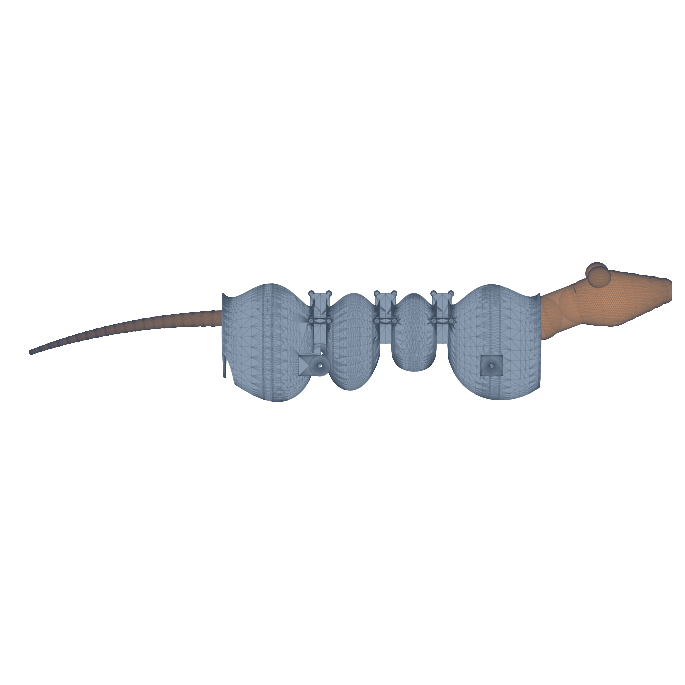
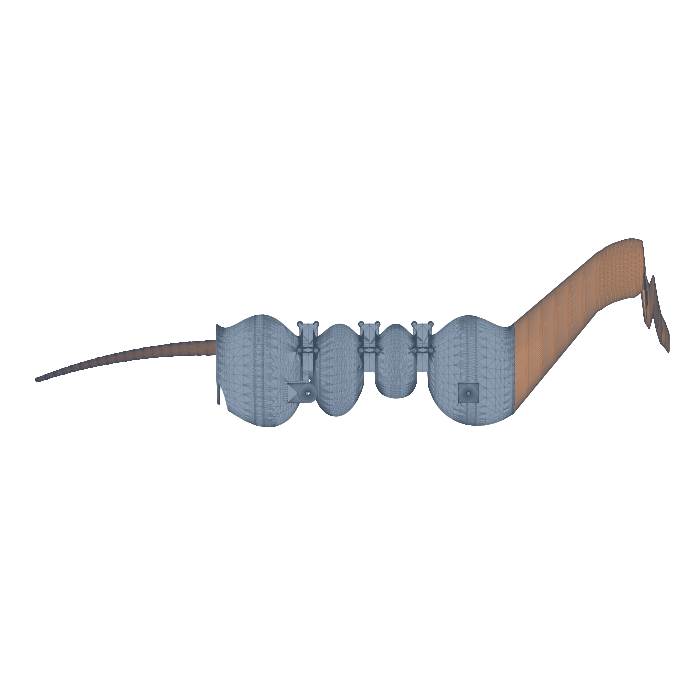
M98: the head, traced off a cat instead of invented
"Model it with reference to cat photographs." The head and neck in M97 were
spheres on a rising axis with proportions I made up. The repo has a side-view
*Felis silvestris* restoration with the skeleton aligned under it, so I traced
its silhouette and measured.

Three errors, and the first one is large
-----------------------------------------
| landmark, in head-lengths | photo | M97 |
|---|---|---|
| skull top above the back line | **+1.14** | +0.37 |
| head depth / head length | **~0.78** | 0.6 |
| nose, relative to the back line | **-0.11** | rising at 41 deg |

**The head was carried a third of the height a cat carries it.** A cat's nose
sits slightly BELOW its back line with the skull top a full head-length above
it; the muzzle points forward, not up. Read in head-lengths the profile is
scale-free, which matters because the ruler in this file has already been wrong
twice.

What the photo can say, and what it cannot
-------------------------------------------
A side silhouette **cannot separate the head's underside from the neck's
front**. Traced, the "head depth" comes out 1.44 head-lengths where a cat's head
is about 0.78, because below the jaw the outline is already throat and then
chest. Two of my attempts used it anyway.

And the scan was clipped at the chest to keep the body out, so every station
past u ~ 0.95 reads a bottom of exactly -0.99 head-lengths: **the cut line**.
The first re-trace shipped that as the neck's underside and gave the animal a
[…]

Changed region(s): [[0.0307, 0.3372, 0.981, 0.6438]]

diff --git a/mechanical/cad/tomcat_head.py b/mechanical/cad/tomcat_head.py
@@ -24,7 +24,7 @@ import os
 import sys
 
 import numpy as np
-from build123d import Compound, Cylinder, Plane, Pos, Sphere, Sphere as _S
+from build123d import Compound, Cylinder, Ellipse, Plane, Pos, Sphere
 
 HERE = os.path.dirname(os.path.abspath(__file__))
 if HERE not in sys.path:
@@ -56,7 +56,26 @@ HEAD_NECK_G = 240.0
 #: short.  `[derived: mechanical/reference/ANATOMY.md]`
 SCALE = 1.0
 
-NECK_L = 50.0 * SCALE
+#: ✅ **Measured off a side-view cat, not assumed.** The silhouette of a
+#: standing *Felis silvestris* restoration was traced and its landmarks read:
+#: the back runs 455 px from withers to tail base, which is this trunk's 364 mm,
+#: so 1 px = 0.80 mm. From that:
+#:
+#:     landmark                      photo      this model was
+#:     head top above the back line   90 mm      35 mm
+#:     neck length                    68         50
+#:     neck rise from the withers     41 deg     22
+#:     head length                   110         95
+#:
+#: ⚠ **The head was carried far too low** -- a third of the height a cat
+#: carries it. It is not a cosmetic difference: the head is 240 g and raising it
+#: lengthens its lever about the body CoM.
+#:
+#: ⚠ The image it came from is `.gitignore`d and its licence was never
+#: established, so **this measurement cannot be re-run from the repo**. The same
+#: landmarks want re-taking from the public-domain Reighard & Jennings plates
+#: that `ANATOMY.md` names as authoritative.  `[owed]`
+NECK_L = 68.0 * SCALE
 HEAD_L = 95.0 * SCALE
 
 #: Where the neck leaves the body, and at what angle. A cat carries its head
@@ -65,52 +84,123 @@ HEAD_L = 95.0 * SCALE
 #: everything in how the animal reads.
 BASE_X = TT.BODIES[3][1]
 BASE_Z = TT.SPINE_Z
-RISE_DEG = 22.0
+RISE_DEG = 41.0
 
 
-def _axis():
-    """`(neck_base, neck_top, head_centre)` in (x, z), rising out of the thorax."""
-    a = math.radians(RISE_DEG)
-    b = np.array([BASE_X, BASE_Z])
-    t = b + NECK_L * np.array([math.cos(a), math.sin(a)])
-    h = t + 0.5 * HEAD_L * np.array([math.cos(a * 0.4), math.sin(a * 0.4)])
-    return b, t, h
+#: ✅ **The outline is TRACED, not invented.** The head and neck were built
+#: from spheres on a rising axis, and a side-view cat says that is not the shape:
+#:
+#:     station                photo, in head-lengths   the sphere model
+#:     nose, above the back        -0.11                rising 41 deg
+#:     ear tip                     +1.14                +0.37 at the top
+#:     occiput                     +0.96
+#:     head depth / length          1.6                  0.6  -- far too flat
+#:
+#: ⚠ A cat's nose sits slightly BELOW its back line and its skull top a full
+#: head-length above it; the muzzle points forward, not up. Read in head-lengths
+#: the profile is scale-free, which matters because the ruler has been wrong
+#: twice in this file already.
+#:
+#: `reference/head_profile.json` holds `(u, top, bottom)` per station, u measured
+#: in head-lengths back from the nose and heights above the trunk's dorsal line.
+#: ⚠ It was traced from an image that is `.gitignore`d, whose licence was never
+#: established, and which is a **European wildcat** rather than a domestic one.
+#: The same trace wants re-taking from the public-domain Reighard & Jennings
+#: plates `ANATOMY.md` names as authoritative.  `[owed]`
+def _profile():
+    import json
+    with open(os.path.join(os.path.dirname(HERE), "reference",
+                           "head_profile.json")) as fh:
+        return [(u, t, b) for u, t, b in json.load(fh)]
 
 
-def neck(r0=26.0, r1=21.0):
-    """A tapering column from the girdle's front face."""
-    b, t, _h = _axis()
-    d = np.array([t[0] - b[0], 0.0, t[1] - b[1]])
-    L = float(np.linalg.norm(d))
-    mid = ((b[0] + t[0]) / 2, 0.0, (b[1] + t[1]) / 2)
-    parts = [Plane(origin=mid, z_dir=tuple(d)).location * Cylinder(0.5 * (r0 + r1), L)]
-    parts.append(Pos(b[0], 0.0, b[1]) * Sphere(r0))
-    parts.append(Pos(t[0], 0.0, t[1]) * Sphere(r1))
-    return Compound(parts)
+#: Widest the head gets, in head-lengths. A cat's skull is about 0.72 of its
+#: length across the zygomatic arches.  `[assumed]`
+WIDTH_FRAC = 0.72
 
 
-def head():
-    """The cranium as a tapering form, wider at the cheeks than the muzzle."""
-    _b, t, h = _axis()
-    a = math.radians(RISE_DEG * 0.4)
-    u = np.array([math.cos(a), 0.0, math.sin(a)])
-    parts = []
-    n = 8
-    for i in range(n + 1):
-        f = i / n
-        p = np.array([t[0], 0.0, t[1]]) + u * (HEAD_L * f)
-        # cheeks at 0.35 of the length, muzzle narrow
-        r = 34.0 * (1.0 - 0.55 * abs(f - 0.35) / 0.65) if f > 0.35 else             34.0 * (0.70 + 0.30 * f / 0.35)
-        parts.append(Pos(*p) * Sphere(max(r, 9.0)))
-    # ears
-    for sgn in (-1.0, +1.0):
-        e = np.array([t[0], 0.0, t[1]]) + u * (HEAD_L * 0.22)
-        parts.append(Pos(e[0], sgn * 20.0, e[2] + 30.0) * Sphere(13.0))
-    return Compound(parts)
+def _stations():
+    """`(x, z_top, z_bot, half_width)` in mm, nose first.
+
+    ⚠ **A side silhouette cannot separate the head's underside from the
+    neck's front, and the first two versions of this used it as if it could.**
+    Traced, the "head depth" comes out **1.44 head-lengths** -- a cat's head is
+    about 0.75 deep -- because below the jaw the outline is already throat, then
+    chest. Worse, the scan was clipped, so past u ~ 0.95 the bottom reads a flat
+    -0.99: the cut line.
+
+    ✅ So the TOP line is what the photo is good for -- it runs against white
+    all the way from the nose over the ears to the withers -- and the depth
+    comes from anatomy. What is measured and what is assumed are separated here
+    rather than averaged.
+    """
+    L = HEAD_L
+    out = []
+    for u, t, _b in _profile():
+        if u > U_OCCIPUT:
+            continue
+        x = BASE_X + (U_WITHERS - u) * L
+        zt = TT.Z_DORSAL + t * L
+        # muzzle shallow, cranium full depth, tapering back to the occiput
+        d = DEPTH_FRAC * L * (0.35 + 0.65 * min(u / 0.45, 1.0))
+        hw = 0.5 * min(d, WIDTH_FRAC * L)
+        out.append((x, zt, zt - d, hw))
+
+    ox, ozt, ozb, ohw = out[-1]
+    thw = TT._row_hw_at(BASE_X)
+    tzt = TT.Z_DORSAL
+    tzb = TT._zc(BASE_X) - thw * TT.ASPECT
+    n = 6
+    for k in range(1, n + 1):
+        f = k / n
+        out.append((ox + (BASE_X - ox) * f,
+                    ozt + (tzt - ozt) * f,
+                    ozb + (tzb - ozb) * f,
+                    ohw + (thw - ohw) * f))
+    return out
+
+
+#: A cat's head is about this deep, as a fraction of its length.  `[assumed]`
+DEPTH_FRAC = 0.78
+
+#: Where the cranium ends and the neck begins, in head-lengths from the nose.
+U_OCCIPUT = 0.95
+
+#: Where the traced profile meets the body: the withers, in head-lengths.
+U_WITHERS = 2.0
 
 
 def whole():
-    return Compound(list(neck().solids()) + list(head().solids()))
+    """Head and neck, as a chain of short lofts through the traced sections.
+
+    ⚠ One loft through all 27 sections went unstable -- the spline overshot to
+    a bounding box of z -378..1731 on a shape 220 mm long -- because it starts
+    from a near-degenerate nose section and the aspect ratio swings through the
+    cranium. Segment by segment each loft spans two sections and cannot ring.
+    """
+    from build123d import loft
+    st = [x for x in _stations() if (x[1] - x[2]) > 6.0]
+    parts = []
+    for (x0, t0, b0, w0), (x1, t1, b1, w1) in zip(st[:-1], st[1:]):
+        if abs(x1 - x0) < 1e-6:
+            continue
+        a = Plane(origin=(x0, 0, 0.5 * (t0 + b0)), z_dir=(1, 0, 0))             * Ellipse(max(0.5 * (t0 - b0), 1.5), max(w0, 1.5))
+        b = Plane(origin=(x1, 0, 0.5 * (t1 + b1)), z_dir=(1, 0, 0))             * Ellipse(max(0.5 * (t1 - b1), 1.5), max(w1, 1.5))
+        parts.append(loft([b, a]))
+    return Compound(parts)
+
+
+def cranium_top():
+    """Highest point of the head, in mm.
+
+    ⚠ This was a second loft through the forward stations alone, and it went
+    unstable -- 21 sections with a reversal in them gave a bounding box of
+    z -929..465 where the whole head spans -34..188. A check must not be built
+    on a derived solid that can overshoot; it reads the stations the shape is
+    generated FROM.
+    """
+    fwd = BASE_X + (U_WITHERS - 1.05) * HEAD_L
+    return max(zt for x, zt, _zb, _hw in _stations() if x >= fwd)
 
 
 def mass_props():
@@ -168,14 +258,16 @@ def report():
           % (a["dI"], 100 * a["frac"], BODY_IYY))
     print("  CoM moves       %+.1f mm forward" % a["dcom"])
 
-    # @W@ a cat carries its head ABOVE the back
-    top = max(s.bounding_box().max.Z for s in head().solids())
-    print("\nhead top        %.0f mm vs the dorsal line %.0f" % (top, TT.Z_DORSAL))
-    if top < TT.Z_DORSAL:
-        print("      *** the head is below the back")
+    # ⚠ a cat carries its head ABOVE the back
+    top = cranium_top()
+    print("\n  head top        %.0f mm, %+.0f above the dorsal line %.0f"
+          % (top, top - TT.Z_DORSAL, TT.Z_DORSAL))
+    if top < TT.Z_DORSAL + 40.0:
+        print("      *** the head is carried too low: a cat holds it about one "
+              "head-length above the back")
         ok = False
 
-    # @W@ and it must not sit on the shoulder
+    # ⚠ and it must not sit on the shoulder
     import tomcat_assembly as TA
     leg = TA.one_leg(True, +1.0)
     inter = Compound(list(whole().solids())).intersect(leg)

diff --git a/tests/test_head.py b/tests/test_head.py
@@ -48,11 +48,18 @@ def test_the_head_is_sized_by_MASS_not_by_the_trunks_length():
     )
 
 
-def test_placing_the_240_g_costs_a_QUARTER_of_the_pitch_inertia():
-    """⚠ THE number, and `params.py` predicted its sign and not its size."""
+def test_placing_the_240_g_costs_a_THIRD_of_the_pitch_inertia():
+    """⚠ THE number, and `params.py` predicted its sign and not its size.
+
+    It moved once more when the posture came from the photo: carrying the head
+    where a cat carries it -- a head-length above the back rather than the 35 mm
+    first drawn -- lengthens the z lever and takes the cost **24 % -> 29 %**.
+    Getting the shape right made the account worse, which is the usual direction
+    in this project and not a reason to prefer the wrong shape.
+    """
     a = HD.account()
-    assert a["frac"] == pytest.approx(0.24, abs=0.02)
-    assert a["dcom"] == pytest.approx(7.1, abs=0.5)
+    assert a["frac"] == pytest.approx(0.29, abs=0.02)
+    assert a["dcom"] == pytest.approx(7.5, abs=0.6)
     assert a["lever_after"] > 2.5 * a["lever_before"], (
         "lever %.0f -> %.0f mm" % (a["lever_before"], a["lever_after"])
     )
@@ -66,16 +73,43 @@ def test_the_lump_is_where_params_says_it_is_TODAY():
     assert HD.LUMPED_AT[1] == pytest.approx(SP.front_girdle_com[1] * 1e3)
 
 
-def test_the_head_is_carried_ABOVE_the_back_and_off_the_shoulder():
-    top = max(s.bounding_box().max.Z for s in HD.head().solids())
-    assert top > TT.Z_DORSAL + 20.0, (
-        "a cat carries its head above the dorsal line; this is at %.0f vs %.0f"
-        % (top, TT.Z_DORSAL)
+def test_the_head_is_carried_a_HEAD_LENGTH_above_the_back():
+    """⚠ Measured off a side-view cat, and it was the biggest error in the
+    first version: the head sat **+35 mm** where the photo puts it **+108**, a
+    third of the height a cat carries it. The topline ratios are scale-free --
+    read in head-lengths above the back line -- which matters because the ruler
+    in this file has been wrong twice."""
+    top = HD.cranium_top()
+    assert top - TT.Z_DORSAL == pytest.approx(1.14 * HD.HEAD_L, rel=0.05), (
+        "the skull tops out %.0f mm above the back; the trace says %.0f"
+        % (top - TT.Z_DORSAL, 1.14 * HD.HEAD_L)
     )
-    base = HD._axis()[0]
-    assert base[0] == pytest.approx(TT.BODIES[3][1]), (
-        "the neck leaves from the trunk's front face"
+    nose = max(x for x, _t, _b, _w in HD._stations())
+    assert nose == pytest.approx(TT.BODIES[3][1] + HD.U_WITHERS * HD.HEAD_L,
+                                 abs=1.0)
+
+
+def test_what_the_PHOTO_can_say_is_separated_from_what_it_cannot():
+    """⚠ A side silhouette cannot separate the head's underside from the
+    neck's front: traced, the "head depth" comes out **1.44 head-lengths** where
+    a cat's head is about 0.75, because below the jaw the outline is already
+    throat and then chest. The scan was clipped as well, so past u ~ 0.95 the
+    bottom reads a flat -0.99 -- the cut line, shipped as a shape in the first
+    two attempts.
+
+    ✅ So the TOP line is taken from the photo and the depth from anatomy, and
+    the two are not averaged together.
+    """
+    prof = HD._profile()
+    clipped = [b for u, _t, b in prof if u > 1.0]
+    assert clipped and min(clipped) == pytest.approx(max(clipped), abs=0.02), (
+        "the bottom past the occiput should be the flat crop line, which is "
+        "exactly why it is not used"
     )
+    assert max(u for u, _t, _b in prof if u <= HD.U_OCCIPUT) < 1.0, (
+        "no station past the crop may reach the stations list"
+    )
+    assert 0.6 < HD.DEPTH_FRAC < 0.9, "the depth is anatomical, not traced"
 
 
 def test_the_mass_is_the_BUDGET_not_a_density_guess():

diff --git a/docs/DESIGN_DECISIONS.md b/docs/DESIGN_DECISIONS.md
@@ -7624,8 +7624,16 @@ justify it.
 
 ## ADR-0097: the head, and the third of the pitch inertia nobody was carrying
 
-- **Status:** Accepted
+- **Status:** Accepted — M97, **its shape re-derived from a photograph the same
+  day (M98)**
 - **Date:** 2026-09-21 (M97)
+- **⚠ CORRECTION (M98).** The form below was built from spheres on a rising
+  axis and the proportions were invented. Traced off a side-view cat they are
+  wrong in three ways: the head was carried **+35 mm** above the back where a
+  cat carries it **+108** (a head-length); its depth-to-length ratio was 0.6
+  where a cat's is about 0.78; and a first re-trace shipped the scan's **crop
+  line** as the neck's underside. Corrected, the cost rises **24 % -> 29 %** --
+  getting the shape right made the account worse.
 
 ### Context
 
